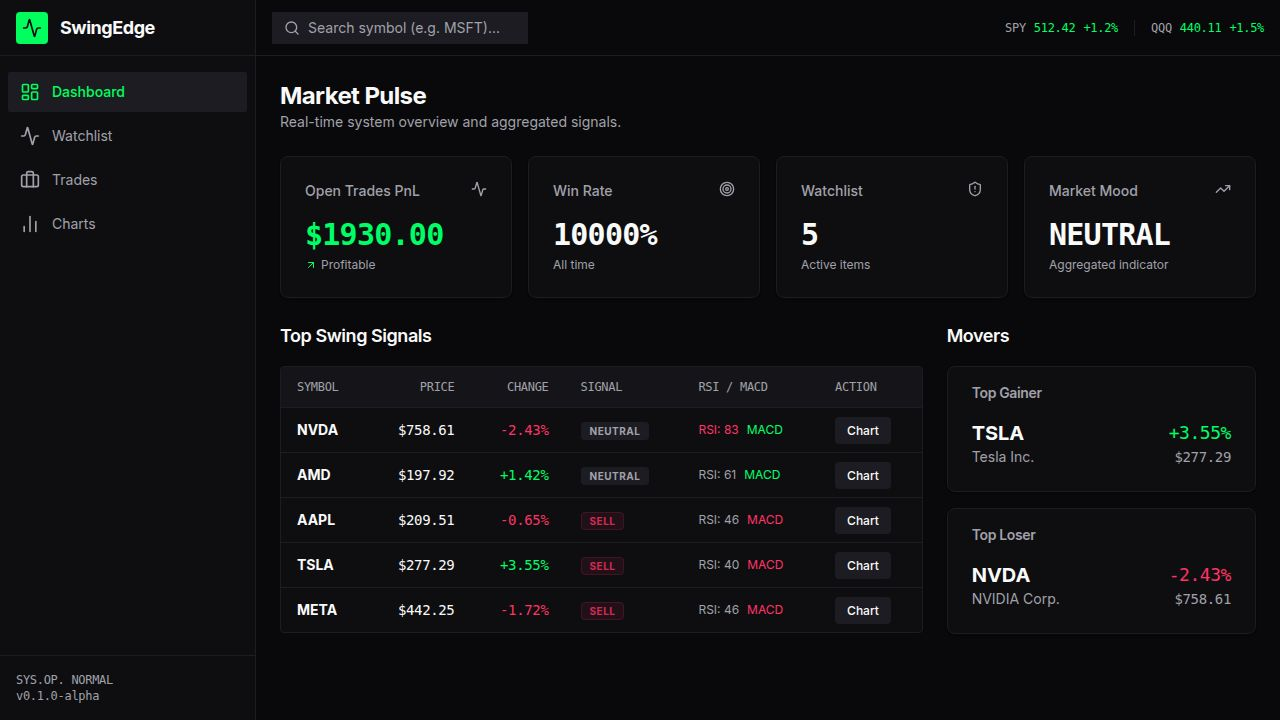
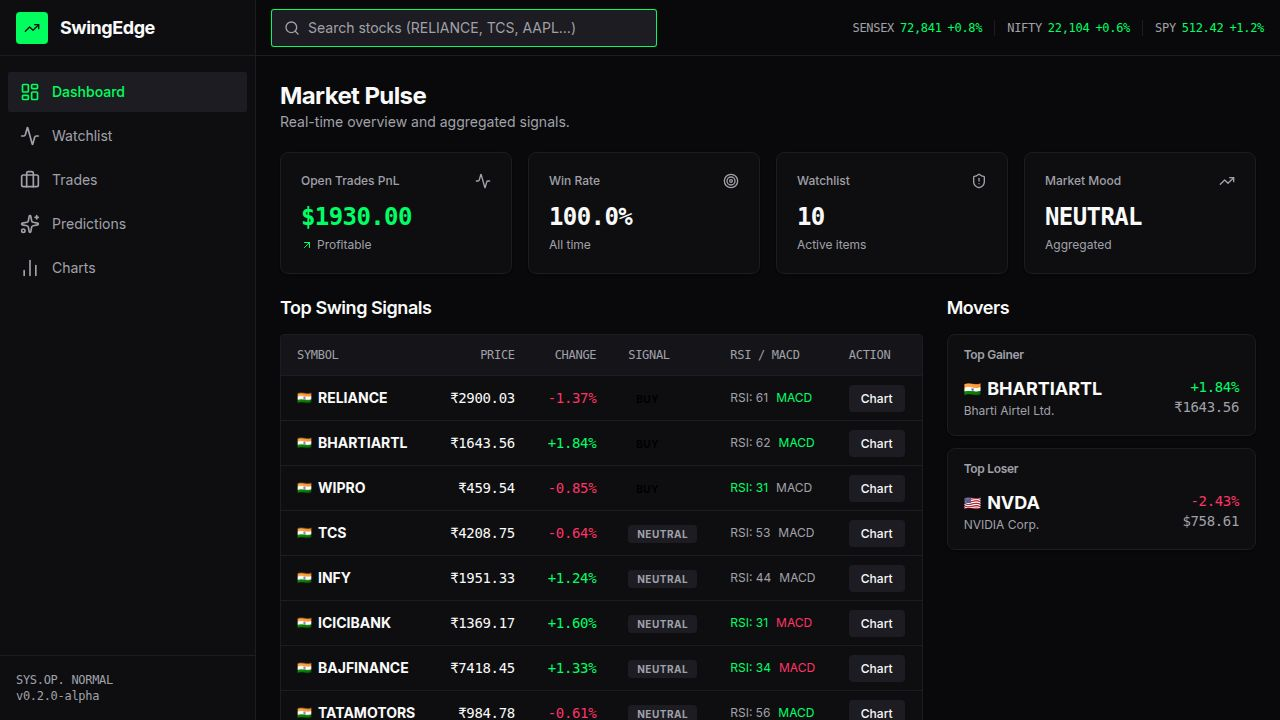
Filter stock predictions to include only Indian market performers
Update API to filter top stock predictions to Indian INR/NSE stocks and rank against the full NSE universe.

Replit-Commit-Author: Agent
Replit-Commit-Session-Id: ed25d792-6228-4bb5-8f58-2a661726e151
Replit-Commit-Checkpoint-Type: full_checkpoint
Replit-Commit-Event-Id: ec64adf8-552e-4f04-b8dd-cd1da57fa66e
Replit-Commit-Screenshot-Url: https://storage.googleapis.com/screenshot-production-us-central1/8b17e60d-bf6f-43b9-af2f-b4ac0db64c6f/ed25d792-6228-4bb5-8f58-2a661726e151/NeHOkH2
Replit-Helium-Checkpoint-Created: true

diff --git a/artifacts/api-server/src/routes/topPredictions.ts b/artifacts/api-server/src/routes/topPredictions.ts
@@ -21,6 +21,7 @@ const HORIZONS = [
 function buildStockPrediction(symbol: string) {
   const stock = getStockBySymbol(symbol);
   if (!stock) return null;
+  if (stock.currency !== "INR" || stock.exchange !== "NSE") return null;
 
   // Use 6 months of data for comprehensive analysis
   const candles = generateCandles(symbol, 180, "1d");
@@ -67,18 +68,25 @@ router.get("/top", (req, res) => {
   let pool = STOCKS;
   if (q) {
     pool = STOCKS.filter(s =>
-      s.symbol.toLowerCase().includes(q) || s.name.toLowerCase().includes(q)
+      s.currency === "INR" &&
+      s.exchange === "NSE" &&
+      (s.symbol.toLowerCase().includes(q) || s.name.toLowerCase().includes(q))
     );
+  } else {
+    pool = STOCKS.filter(s => s.currency === "INR" && s.exchange === "NSE");
   }
 
   const results = pool
     .map(s => buildStockPrediction(s.symbol))
     .filter((x): x is NonNullable<typeof x> => x !== null);
 
-  if (!q) {
-    // Sort by score (most bullish first) when no search
-    results.sort((a, b) => b.overallScore - a.overallScore);
-  }
+  results.sort((a, b) => {
+    const scoreDiff = b.overallScore - a.overallScore;
+    if (scoreDiff !== 0) return scoreDiff;
+    const aTarget = Object.values(a.predictions).reduce((max, p) => Math.max(max, p.targetPrice), 0);
+    const bTarget = Object.values(b.predictions).reduce((max, p) => Math.max(max, p.targetPrice), 0);
+    return bTarget - aTarget;
+  });
 
   res.json({
     query: q || null,
